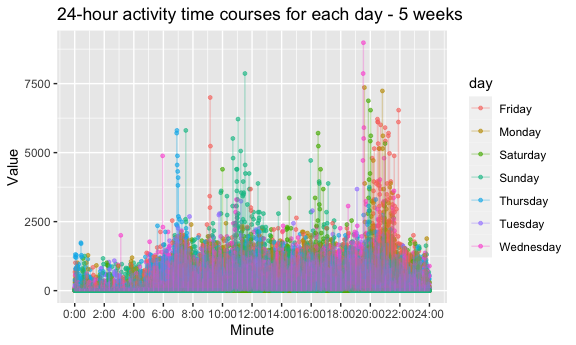
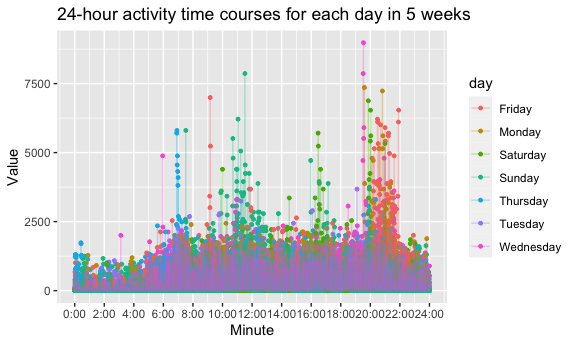
final

diff --git a/p8105_hw3_jl6049.md b/p8105_hw3_jl6049.md
@@ -420,15 +420,27 @@ options(
 
 accelerometer_data %>% 
   ggplot(aes(x = minute, y = value, color = day)) + 
-  geom_point(alpha = 0.6, size = 1) + 
+  geom_point(alpha = 1, size = 1) + 
   geom_line(alpha = 0.3) +
   scale_x_continuous(breaks = c(0,120,240,360,480,600,720,840,960,1080,1200,1320,1440),
                      labels = c("0:00","2:00","4:00","6:00","8:00","10:00","12:00","14:00","16:00","18:00","20:00","22:00","24:00")) +
   labs(
-    title = "24-hour activity time courses for each day - 5 weeks",
+    title = "24-hour activity time courses for each day in 5 weeks",
     x = "Minute",
     y = "Value"
   )
 ```
 
 <img src="p8105_hw3_jl6049_files/figure-gfm/unnamed-chunk-16-1.png" width="90%" />
+From the plot we can find out that
+
+From the angle of a day: We could tell that from 0:00 to 6:00, the
+person’s activity value is very low, which could means that the person’s
+sleep time is in this period. His or her wake-up time is around 6 am.
+
+From the angle of a week: at Friday, this person’s activity is pretty
+high from 20:00 to 22:00. He or she may ususally go out and have fun at
+that time. at Sunday, this person’s activity has a peak from 10:00 to
+12:00. He or she may do some routine activities only in Sunday noon. at
+Saturday, this person’s activity has a small peak from 16:00 to 18:00.
+He or she may do some routine activities only in Saturday evening.
